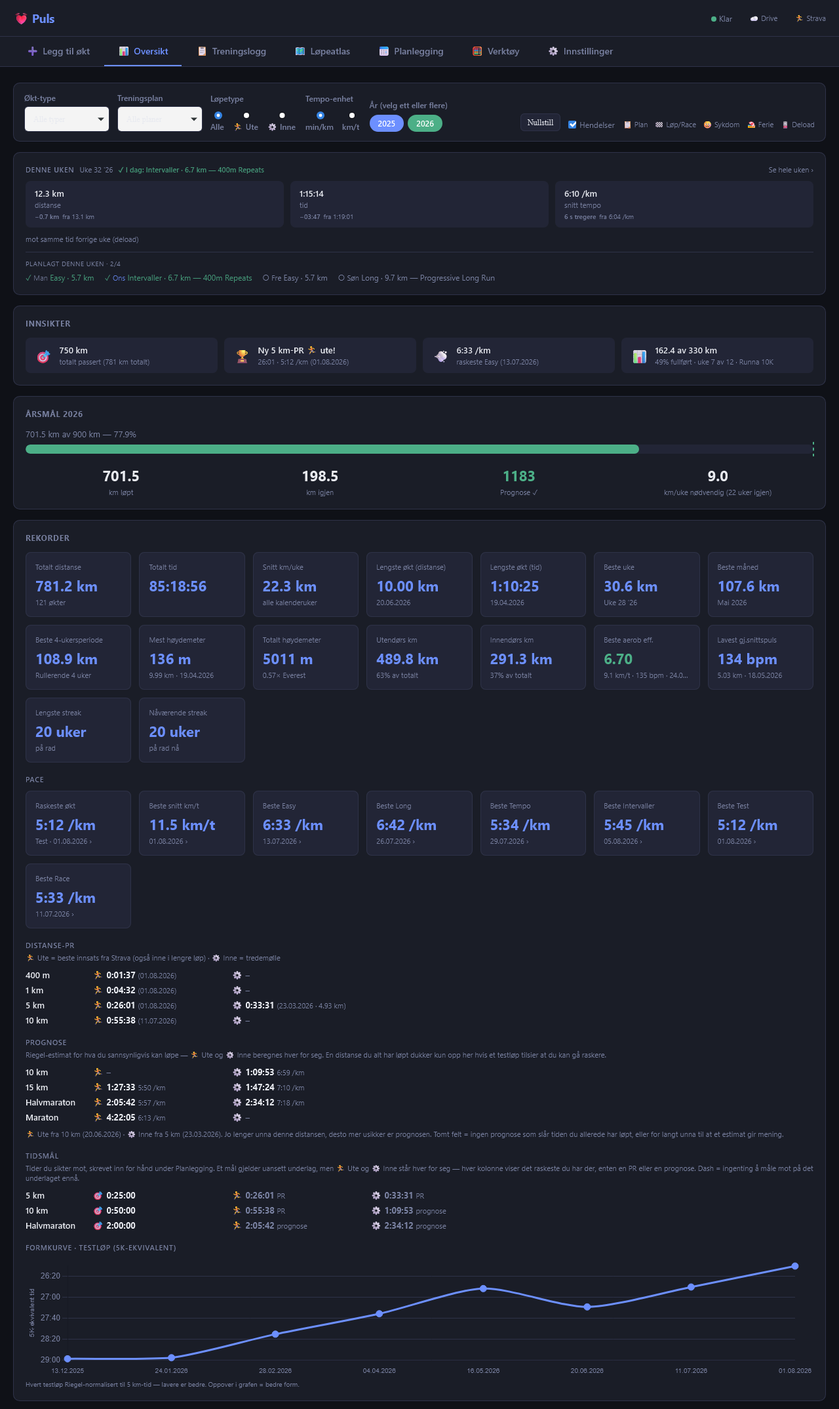
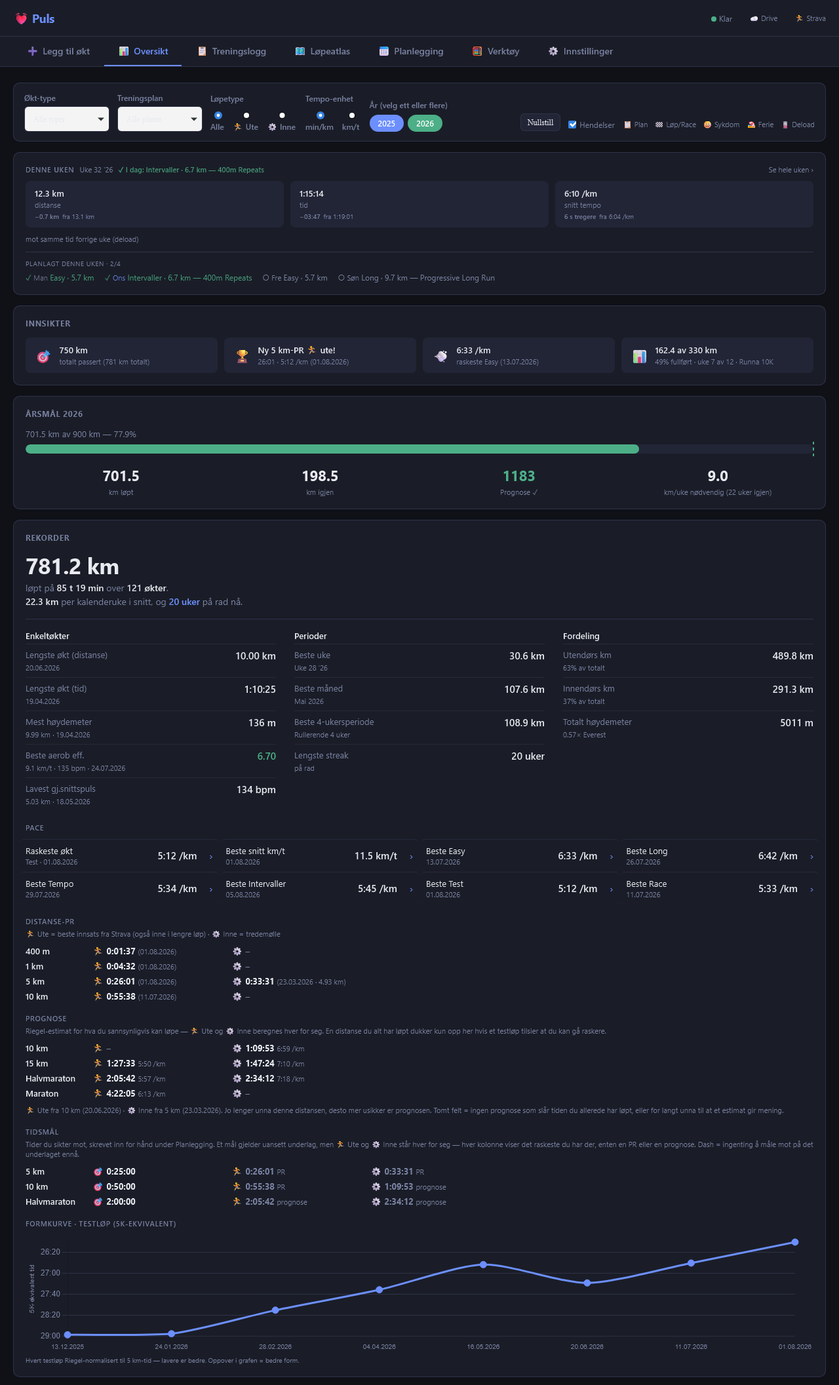
Rekorder was 24 identical tiles, every value the same shade of blue
When everything is emphasised nothing is, and finding one record meant
reading all 24. Now a headline (total distance, with time, runs, the
weekly average and the current streak as two short lines), three short
lists that say what kind of record a line is before you read it, and
the Pace rows. Every record is still there; a test lists all 24.

Blue is reserved for what you can tap, so the Pace rows read as rows
that open their run, keyboard included, plus the two colours that were
information all along: aerob eff. band and streak length. Numbers are
tabular and right-aligned. The styles sit above the phone block: the
old grid's base rule sat after it, so its phone override never applied.

charts.png moves because Rekorder's new height is fractional; the
committed code regenerates it identically, and the cards below it did
not change.

diff --git a/puls.html b/puls.html
@@ -465,6 +465,36 @@
   #scrollTopBtn.visible { opacity:1; pointer-events:auto; }
   #scrollTopBtn:hover { background:var(--accent); color:#fff; }
 
+  /* ── Rekorder ─────────────────────────────────────────────────────────────────────────────────
+     A headline, three short lists and tappable Pace rows, instead of 24 identical tiles that gave
+     every record the same weight (his pick of three mockups, 2026-09-27). Every record is still
+     here. Blue is RESERVED for what you can tap — the Pace rows — plus the two values whose colour
+     is information (aerob eff. band, streak length); every other value is plain text.
+     ⚠ Deliberately ABOVE the phone @media block: the old `.records-grid` base rule sat after it,
+     so its phone override lost on source order and never applied. */
+  .rk-num { font-variant-numeric: tabular-nums; }
+  .rk-hero { padding: 2px 0 16px; border-bottom: 1px solid var(--border); margin-bottom: 16px; }
+  .rk-big { font-size: 34px; font-weight: 700; letter-spacing: -.5px; line-height: 1.05; }
+  .rk-say { font-size: 14px; color: var(--muted); margin-top: 6px; line-height: 1.5; }
+  .rk-say b { color: var(--text); font-weight: 600; }
+  .rk-groups { display: grid; grid-template-columns: repeat(3, 1fr); gap: 8px 28px; }
+  .rk-group h4 { font-size: 13px; font-weight: 600; margin-bottom: 4px; }
+  .rk-row { display: grid; grid-template-columns: 1fr auto; column-gap: 12px; padding: 7px 0; border-top: 1px solid rgba(46,50,72,.6); }
+  .rk-l { color: var(--muted); font-size: 13px; }
+  .rk-v { font-size: 15px; font-weight: 600; text-align: right; white-space: nowrap; }
+  .rk-s { grid-column: 1 / -1; font-size: 11px; color: var(--muted); margin-top: 1px; }
+  .rk-pace { display: grid; grid-template-columns: repeat(4, 1fr); column-gap: 20px; }
+  .rk-prow { display: grid; grid-template-columns: 1fr auto 14px; align-items: center; column-gap: 10px;
+             padding: 8px; margin: 0 -8px; border-top: 1px solid rgba(46,50,72,.6); border-radius: 6px; cursor: pointer; }
+  .rk-prow .rk-l { color: var(--text); }
+  .rk-prow:hover, .rk-prow:focus-visible { background: var(--surface2); outline: none; }
+  .rk-prow:focus-visible { box-shadow: inset 0 0 0 1px var(--accent); }
+  .rk-go { color: var(--accent); font-size: 16px; text-align: right; }
+  .rk-prow.rk-empty { cursor: default; }
+  .rk-prow.rk-empty:hover { background: none; }
+  .rk-prow.rk-empty .rk-v { color: var(--muted); font-weight: 400; }
+  @media (max-width: 1100px) { .rk-pace { grid-template-columns: repeat(2, 1fr); } }
+
   @media (max-width: 600px) {
     html { overflow-x: hidden; }
     header { padding: 0 12px; gap: 8px; }
@@ -540,7 +570,8 @@
     #logTable th:nth-child(6),  #logTable td:nth-child(6) { display: none; }
     .shoe-bar-row { grid-template-columns: 110px 1fr 44px; }
     .zone-grid { grid-template-columns: repeat(3, 1fr); }
-    .records-grid { grid-template-columns: repeat(auto-fill, minmax(130px, 1fr)); }
+    .rk-groups, .rk-pace { grid-template-columns: 1fr; }
+    .rk-big { font-size: 30px; }
     /* Let the date/type columns shrink so the ✏/✕ buttons stay inside the card */
     .event-row { gap: 8px; padding: 10px; }
     .event-row .er-date { min-width: 0; }
@@ -548,11 +579,6 @@
   }
 
   /* ── Records ── */
-  .records-grid { display: grid; grid-template-columns: repeat(auto-fill, minmax(160px, 1fr)); gap: 12px; }
-  .record-card { background: var(--surface2); border: 1px solid var(--border); border-radius: 8px; padding: 14px; }
-  .record-label { font-size: 11px; color: var(--muted); margin-bottom: 6px; }
-  .record-value { font-size: 22px; font-weight: 700; color: var(--accent); }
-  .record-sub { font-size: 11px; color: var(--muted); margin-top: 3px; white-space: nowrap; overflow: hidden; text-overflow: ellipsis; }
   /* Shared row layout for Distanse-PR and Prognose — one compact line per distance on
      desktop, stacked on mobile. (Named top3-* from the retired Topp 3 list it began as.) */
   .top3-list { display: flex; flex-direction: column; gap: 6px; }
@@ -1036,9 +1062,9 @@
     </div>
     <div class="card span2">
       <div class="card-title">Rekorder</div>
-      <div class="records-grid" id="recordsGrid"></div>
+      <div id="recordsGrid"></div>
       <div style="font-size:11px;font-weight:600;color:var(--muted);text-transform:uppercase;letter-spacing:.06em;margin:18px 0 10px">Pace</div>
-      <div class="records-grid" id="paceRecordsGrid"></div>
+      <div class="rk-pace" id="paceRecordsGrid"></div>
       <div style="font-size:11px;font-weight:600;color:var(--muted);text-transform:uppercase;letter-spacing:.06em;margin:18px 0 4px">Distanse-PR</div>
       <div style="font-size:11px;color:var(--muted);margin-bottom:10px">🏃 Ute = beste innsats fra Strava (også inne i lengre løp) · ⚙ Inne = tredemølle</div>
       <div id="distPRList"></div>
@@ -10008,29 +10034,58 @@ function renderDashboard() {
       </div>`;
   }
 
-  // Records
+  // Records — a headline, then three short lists (his pick of three mockups, 2026-09-27). Every
+  // record the 24 tiles held is still here: four of them read better as the headline sentence than
+  // as tiles, and grouping says what KIND of record a line is before you read it.
   const recs = computeRecords(sessions);
-  // `sid` makes a card open that run's detail panel — only the Pace row passes one (his call,
-  // 2026-09-22): each of those cards IS one run, and «which run was that?» is the question it raises.
-  const recCardHtml = r => `<div class="record-card"${r.tooltip ? ` title="${r.tooltip}"` : ''}${r.sid ? ` onclick="DetailPanel.openSession('${r.sid}')" style="cursor:pointer"` : ''}><div class="record-label">${r.label}</div><div class="record-value"${r.color ? ` style="color:${r.color}"` : ''}>${r.value}</div><div class="record-sub">${r.sub}${r.sid ? ' ›' : ''}</div></div>`;
-  document.getElementById('recordsGrid').innerHTML = [
-    { label:'Totalt distanse', value: recs.totalDist.toFixed(1)+' km', sub: `${sessions.length} økter` },
-    { label:'Totalt tid', value: secsToHms(recs.totalTime), sub: '' },
-    { label:'Snitt km/uke', value: recs.snittKmUke ? recs.snittKmUke+' km' : '–', sub: 'alle kalenderuker' },
-    { label:'Lengste økt (distanse)', value: recs.longestDist ? fmtDist(recs.longestDist.distanse)+' km' : '–', sub: recs.longestDist ? fmtDate(recs.longestDist.dato) : '' },
-    { label:'Lengste økt (tid)', value: recs.longestTime ? secsToHms(recs.longestTime.varighet) : '–', sub: recs.longestTime ? fmtDate(recs.longestTime.dato) : '' },
-    { label:'Beste uke', value: recs.besteUke ? recs.besteUkeKm.toFixed(1)+' km' : '–', sub: recs.besteUke ? fmtWeekLabel(recs.besteUke) : '' },
-    { label:'Beste måned', value: recs.besteMåned ? recs.besteMånedKm.toFixed(1)+' km' : '–', sub: recs.besteMåned ? (['Jan','Feb','Mar','Apr','Mai','Jun','Jul','Aug','Sep','Okt','Nov','Des'][+recs.besteMåned.slice(5,7)-1]+' '+recs.besteMåned.slice(0,4)) : '' },
-    { label:'Beste 4-ukersperiode', value: recs.beste4Blokk ? recs.beste4Blokk.toFixed(1)+' km' : '–', sub: 'Rullerende 4 uker' },
-    { label:'Mest høydemeter', value: recs.bestHoyde ? recs.bestHoyde.hoydeMeter+' m' : '–', sub: recs.bestHoyde ? `${fmtDist(recs.bestHoyde.distanse)} km · ${fmtDate(recs.bestHoyde.dato)}` : '' },
-    { label:'Totalt høydemeter', value: recs.totalHoyde ? recs.totalHoyde+' m' : '–', sub: recs.totalHoyde ? `${(recs.totalHoyde/8849).toFixed(2)}× Everest` : '' },
-    { label:'Utendørs km', value: recs.totalOutdoorKm ? recs.totalOutdoorKm+' km' : '–', sub: recs.totalDist ? `${Math.round(recs.totalOutdoorKm/recs.totalDist*100)}% av totalt` : '' },
-    { label:'Innendørs km', value: recs.totalIndoorKm ? recs.totalIndoorKm+' km' : '–', sub: recs.totalDist ? `${Math.round(recs.totalIndoorKm/recs.totalDist*100)}% av totalt` : '' },
-    { label:'Beste aerob eff.', value: recs.bestAerobEff ? recs.bestAerobEff.ae.toFixed(2) : '–', sub: recs.bestAerobEff ? `${PaceConv.fmtKmh(+recs.bestAerobEff.kmh)} km/t · ${recs.bestAerobEff.gjsnittspuls} bpm · ${fmtDate(recs.bestAerobEff.dato)}` : '', color: recs.bestAerobEff ? (recs.bestAerobEff.ae >= 7 ? '#6c8fff' : recs.bestAerobEff.ae >= 5.5 ? 'var(--green)' : recs.bestAerobEff.ae >= 4 ? 'rgba(240,192,80,.9)' : '#f87171') : null, tooltip: 'Aerob effektivitet = fart ÷ puls × 100\nLav: < 4.0 · Moderat: 4.0–5.5 · God: 5.5–7.0 · Høy: > 7.0' },
-    { label:'Lavest gj.snittspuls', value: recs.lavPuls ? recs.lavPuls.gjsnittspuls+' bpm' : '–', sub: recs.lavPuls ? `${fmtDist(recs.lavPuls.distanse)} km · ${fmtDate(recs.lavPuls.dato)}` : '' },
-    { label:'Lengste streak', value: recs.longestStreak ? `${recs.longestStreak} uker` : '–', sub: recs.longestStreak===1 ? '1 uke på rad' : recs.longestStreak > 1 ? 'på rad' : '' },
-    { label:'Nåværende streak', value: recs.currentStreak ? `${recs.currentStreak} uker` : '–', sub: recs.currentStreak > 1 ? 'på rad nå' : recs.currentStreak === 1 ? 'denne uken' : '', color: recs.currentStreak >= 6 ? '#6c8fff' : recs.currentStreak >= 3 ? 'var(--green)' : recs.currentStreak >= 1 ? 'rgba(240,192,80,.9)' : null },
-  ].map(recCardHtml).join('');
+  // «85 t 19 min» reads in a sentence where «85:18:56» does not. Rounded on TOTAL minutes, so an
+  // hour never prints as «60 min».
+  const hoursMins = secs => { const tm = Math.round(secs / 60), h = Math.floor(tm / 60);
+                              return h ? `${h} t ${tm % 60} min` : `${tm} min`; };
+  // The two colours that are INFORMATION, not decoration — kept from the tiles on purpose.
+  const cs = recs.currentStreak;
+  const streakCol = cs >= 6 ? '#6c8fff' : cs >= 3 ? 'var(--green)' : cs >= 1 ? 'rgba(240,192,80,.9)' : null;
+  const ae = recs.bestAerobEff;
+  const aeCol = ae ? (ae.ae >= 7 ? '#6c8fff' : ae.ae >= 5.5 ? 'var(--green)' : ae.ae >= 4 ? 'rgba(240,192,80,.9)' : '#f87171') : null;
+  const n = sessions.length;
+  // «per kalenderuke» carries what the tile's «alle kalenderuker» said: weeks with no running count.
+  const line2 = [
+    recs.snittKmUke ? `<b class="rk-num">${recs.snittKmUke} km</b> per kalenderuke i snitt` : '',
+    cs > 1 ? `<b class="rk-num"${streakCol ? ` style="color:${streakCol}"` : ''}>${cs} uker</b> på rad nå`
+      : cs === 1 ? 'løpt denne uken' : '',
+  ].filter(Boolean).join(', og ');
+  const hero = n
+    ? `<div class="rk-hero"><div class="rk-big rk-num">${recs.totalDist.toFixed(1)} km</div>`
+      + `<div class="rk-say">løpt på <b class="rk-num">${hoursMins(recs.totalTime)}</b> over `
+      + `<b class="rk-num">${n} ${n === 1 ? 'økt' : 'økter'}</b>.`
+      + (line2 ? `<br>${line2.replace(/^([a-zæøå])/, c => c.toUpperCase())}.` : '') + `</div></div>`
+    : `<div class="rk-hero"><div class="rk-say">Ingen økter matcher filteret.</div></div>`;
+  const row = (label, value, sub, extra = {}) =>
+    `<div class="rk-row"${extra.tooltip ? ` title="${extra.tooltip}"` : ''}><span class="rk-l">${label}</span>`
+    + `<span class="rk-v rk-num"${extra.color ? ` style="color:${extra.color}"` : ''}>${value}</span>`
+    + (sub ? `<span class="rk-s">${sub}</span>` : '') + `</div>`;
+  const MND = ['Jan','Feb','Mar','Apr','Mai','Jun','Jul','Aug','Sep','Okt','Nov','Des'];
+  document.getElementById('recordsGrid').innerHTML = hero + `<div class="rk-groups">
+    <div class="rk-group"><h4>Enkeltøkter</h4>${[
+      row('Lengste økt (distanse)', recs.longestDist ? fmtDist(recs.longestDist.distanse)+' km' : '–', recs.longestDist ? fmtDate(recs.longestDist.dato) : ''),
+      row('Lengste økt (tid)', recs.longestTime ? secsToHms(recs.longestTime.varighet) : '–', recs.longestTime ? fmtDate(recs.longestTime.dato) : ''),
+      row('Mest høydemeter', recs.bestHoyde ? recs.bestHoyde.hoydeMeter+' m' : '–', recs.bestHoyde ? `${fmtDist(recs.bestHoyde.distanse)} km · ${fmtDate(recs.bestHoyde.dato)}` : ''),
+      row('Beste aerob eff.', ae ? ae.ae.toFixed(2) : '–', ae ? `${PaceConv.fmtKmh(+ae.kmh)} km/t · ${ae.gjsnittspuls} bpm · ${fmtDate(ae.dato)}` : '',
+          { color: aeCol, tooltip: 'Aerob effektivitet = fart ÷ puls × 100\nLav: < 4.0 · Moderat: 4.0–5.5 · God: 5.5–7.0 · Høy: > 7.0' }),
+      row('Lavest gj.snittspuls', recs.lavPuls ? recs.lavPuls.gjsnittspuls+' bpm' : '–', recs.lavPuls ? `${fmtDist(recs.lavPuls.distanse)} km · ${fmtDate(recs.lavPuls.dato)}` : ''),
+    ].join('')}</div>
+    <div class="rk-group"><h4>Perioder</h4>${[
+      row('Beste uke', recs.besteUke ? recs.besteUkeKm.toFixed(1)+' km' : '–', recs.besteUke ? fmtWeekLabel(recs.besteUke) : ''),
+      row('Beste måned', recs.besteMåned ? recs.besteMånedKm.toFixed(1)+' km' : '–', recs.besteMåned ? `${MND[+recs.besteMåned.slice(5,7)-1]} ${recs.besteMåned.slice(0,4)}` : ''),
+      row('Beste 4-ukersperiode', recs.beste4Blokk ? recs.beste4Blokk.toFixed(1)+' km' : '–', 'Rullerende 4 uker'),
+      row('Lengste streak', recs.longestStreak ? `${recs.longestStreak} ${recs.longestStreak === 1 ? 'uke' : 'uker'}` : '–', recs.longestStreak ? 'på rad' : ''),
+    ].join('')}</div>
+    <div class="rk-group"><h4>Fordeling</h4>${[
+      row('Utendørs km', recs.totalOutdoorKm ? recs.totalOutdoorKm+' km' : '–', recs.totalDist ? `${Math.round(recs.totalOutdoorKm/recs.totalDist*100)}% av totalt` : ''),
+      row('Innendørs km', recs.totalIndoorKm ? recs.totalIndoorKm+' km' : '–', recs.totalDist ? `${Math.round(recs.totalIndoorKm/recs.totalDist*100)}% av totalt` : ''),
+      row('Totalt høydemeter', recs.totalHoyde ? recs.totalHoyde+' m' : '–', recs.totalHoyde ? `${(recs.totalHoyde/8849).toFixed(2)}× Everest` : ''),
+    ].join('')}</div>
+  </div>`;
 
   // Labels carry no "pace": the section heading above already says Pace, so repeating it on every
   // card was redundant — and the repetition was hiding a collision. "Beste tempo" (best pace of any
@@ -10045,6 +10100,14 @@ function renderDashboard() {
   // tell from a decision.
   const PACE_CARD_SKIP = ['Steady'];
   const paceCard = (label, s) => ({ label, value: s ? secsToMmSs(s.tempo)+' /km' : '–', sub: s ? fmtDate(s.dato) : '', sid: s?.id });
+  // A row with a run behind it opens that run (his call, 2026-09-22) — keyboard too, since a row is
+  // not a button by nature. An empty row is not a control, so it gets neither the › nor the hover.
+  const paceRow = r => r.sid
+    ? `<div class="rk-prow" role="button" tabindex="0" onclick="DetailPanel.openSession('${r.sid}')"`
+      + ` onkeydown="if(event.key==='Enter'||event.key===' '){event.preventDefault();this.click()}">`
+      + `<div><div class="rk-l">${r.label}</div><div class="rk-s">${r.sub}</div></div>`
+      + `<span class="rk-v rk-num">${r.value}</span><span class="rk-go">›</span></div>`
+    : `<div class="rk-prow rk-empty"><div class="rk-l">${r.label}</div><span class="rk-v rk-num">${r.value}</span><span class="rk-go"></span></div>`;
   document.getElementById('paceRecordsGrid').innerHTML = [
     // "Raskeste økt", not "Beste totalt" (vague about what was totalled) and not "alle økter" —
     // this card excludes Avvik-flagged runs like every other quality record, so a label promising
@@ -10057,11 +10120,11 @@ function renderDashboard() {
     // later). It also covers the two categories that have no card of their own: Steady, and any
     // custom type — so if one of those ever tops the row it says so rather than appearing unsourced.
     { ...paceCard('Raskeste økt', recs.bestePace),
-      sub: recs.bestePace ? `${recs.bestePace.okttype || 'ukjent type'} · ${fmtDate(recs.bestePace.dato)}` : '' },
+      sub: recs.bestePace ? `${escapeHtml(recs.bestePace.okttype || 'ukjent type')} · ${fmtDate(recs.bestePace.dato)}` : '' },
     { label:'Beste snitt km/t', value: recs.bestKmh ? PaceConv.fmtKmh(recs.bestKmh.snittkmh)+' km/t' : '–', sub: recs.bestKmh ? fmtDate(recs.bestKmh.dato) : '', sid: recs.bestKmh?.id },
     ...CORE_OKTTYPER.filter(t => !PACE_CARD_SKIP.includes(t))
                     .map(t => paceCard(`Beste ${t}`, recs.bestPaceByType[t])),
-  ].map(recCardHtml).join('');
+  ].map(paceRow).join('');
 
   // Distanse-PR: one row per distance, Ute (Strava best effort) beside Inne (treadmill).
   // Two populations, never merged — see DATA.md "Belt vs GPS". The outdoor runners-up

diff --git a/tests/test_insights.py b/tests/test_insights.py
@@ -556,15 +556,54 @@ with sync_playwright() as p:
     pg.wait_for_timeout(500)
     pg.evaluate("() => switchTab('dash')")
     pg.wait_for_timeout(400)
-    card = lambda label: pg.locator('.record-card', has=pg.locator('.record-label', has_text=label)).first
-    check('the Easy card says it can be opened', '›' in card('Beste Easy').inner_text(), True)
-    check('an empty card (no Race) cannot', card('Beste Race').get_attribute('onclick'), None)
-    check('a totals card cannot', card('Totalt distanse').get_attribute('onclick'), None)
-    card('Beste Easy').click()
+    # Rows since the Rekorder redesign (2026-09-27): a Pace row is `.rk-prow`, a record in the three
+    # lists above it is `.rk-row` and is never a control.
+    prow = lambda label: pg.locator('.rk-prow', has=pg.locator('.rk-l', has_text=label)).first
+    check('the Easy row says it can be opened', '›' in prow('Beste Easy').inner_text(), True)
+    check('an empty row (no Race) cannot', prow('Beste Race').get_attribute('onclick'), None)
+    check('...and is not announced as a button either', prow('Beste Race').get_attribute('role'), None)
+    lrow = pg.locator('.rk-row', has=pg.locator('.rk-l', has_text='Lengste økt (distanse)')).first
+    check('a record in the lists above cannot', lrow.get_attribute('onclick'), None)
+    prow('Beste Easy').click()
     pg.wait_for_timeout(300)
     check('clicking it opens the detail panel',
           pg.evaluate("() => document.getElementById('detailModal').classList.contains('open')"), True)
     check('...on the FASTER Easy run, not just an Easy run', 'Rask easy' in pg.inner_text('#detailModal'), True)
+    # A row is not a button by nature, so the keyboard path is its own claim.
+    pg.evaluate("() => document.getElementById('detailModal').classList.remove('open')")
+    prow('Beste Easy').focus()
+    pg.keyboard.press('Enter')
+    pg.wait_for_timeout(300)
+    check('Enter on a focused row opens it too',
+          pg.evaluate("() => document.getElementById('detailModal').classList.contains('open')"), True)
+    pg.evaluate("() => document.getElementById('detailModal').classList.remove('open')")
+
+    # ── The redesign kept every record (his question: «same cards?» — yes) ─────────────────────
+    # 24 tiles became a headline, three lists and the Pace rows. Twelve records are list rows, eight
+    # are Pace rows, and the four folded into the headline are asserted by what they SAY.
+    print("== every record survives the Rekorder redesign ==")
+    rows = pg.evaluate("() => [...document.querySelectorAll('#recordsGrid .rk-row .rk-l')].map(e => e.textContent)")
+    check('the twelve list records are all there', sorted(rows), sorted([
+        'Lengste økt (distanse)', 'Lengste økt (tid)', 'Mest høydemeter', 'Beste aerob eff.',
+        'Lavest gj.snittspuls', 'Beste uke', 'Beste måned', 'Beste 4-ukersperiode', 'Lengste streak',
+        'Utendørs km', 'Innendørs km', 'Totalt høydemeter']))
+    check('...and the eight Pace rows', pg.evaluate("() => document.querySelectorAll('#paceRecordsGrid .rk-prow').length"), 8)
+    hero = " ".join(pg.inner_text('#recordsGrid .rk-hero').split())
+    check('the headline carries total distance, time and the run count',
+          ('12.0 km' in hero, 'løpt på' in hero, '2 økter' in hero), (True, True, True))
+    check('...and the weekly average, saying weeks without runs count',
+          'per kalenderuke i snitt' in hero, True)
+    # The two colours that are information, not decoration, must survive the plain-text redesign.
+    ae_colour = pg.evaluate("""() => { const r = [...document.querySelectorAll('#recordsGrid .rk-row')]
+        .find(e => e.querySelector('.rk-l').textContent === 'Beste aerob eff.');
+        return r && r.querySelector('.rk-v').getAttribute('style'); }""")
+    check('⚠ aerob eff. keeps its band colour', bool(ae_colour and 'color' in ae_colour), True)
+    check('...and its explanation', pg.evaluate("""() => { const r = [...document.querySelectorAll('#recordsGrid .rk-row')]
+        .find(e => e.querySelector('.rk-l').textContent === 'Beste aerob eff.');
+        return (r && r.getAttribute('title') || '').includes('Aerob effektivitet'); }"""), True)
+    check('blue is not spent on plain values any more',
+          pg.evaluate("""() => getComputedStyle(document.querySelector('#recordsGrid .rk-row .rk-v')).color"""),
+          pg.evaluate("() => getComputedStyle(document.body).color"))
 
     if errs:
         print('  PAGE ERRORS:', errs)

diff --git a/tests/test_race_events.py b/tests/test_race_events.py
@@ -1197,7 +1197,9 @@ with sync_playwright() as b0:
     pg.evaluate("() => switchTab('dash')")
     pg.wait_for_timeout(500)
     saw_comparison = False
-    for sel in ['#weeklyTable tbody tr', '.record-card', '#blocksCard [data-block]']:
+    # '.rk-prow[role=button]', not the old '.record-card': the Rekorder redesign (2026-09-27) would
+    # otherwise have left this walk clicking NOTHING in Rekorder, silently narrowing the sweep.
+    for sel in ['#weeklyTable tbody tr', '.rk-prow[role=button]', '#blocksCard [data-block]']:
         loc = pg.locator(sel)
         for i in range(min(loc.count(), 4)):
             loc.nth(i).click()

diff --git a/README.md b/README.md
@@ -39,8 +39,8 @@ En selvstendig løpelogg i én enkelt fil — logg en økt på sekunder og følg
   - **Ukens plan med ett blikk** *(krever importert plan)* — **Planlagt denne uken · 2/4**, og så hver planlagte økt med status: **✓ Man Easy · 4.5 km · ✓ Ons Long · 5 km · ○ Fre Intervaller · 4.5 km · ✗ Søn Long · 12 km**. Hele uken blir stående hele uken, så du ser hva du har gjort, hva som gjenstår og hva du mistet uten å åpne et kort — en liste som fjernet de ferdige radene kunne ikke fortalt deg om uken startet med fire økter eller to. Gjort er grønn ✓, foran deg er ○, mistet er en dempet ✗ (ikke overstrøket — en mistet økt er ikke avlyst), og dagens dagnavn er markert i blått. En **Test eller et Race får 🏁** — ukens maksimale innsats, den som flytter prognosene dine: **○ Fre 🏁 Race · 5 km**. Samme 🏁 som hendelseslisten og nedtellingen i Innsikter bruker, så symbolet betyr det samme overalt; de fem andre økttypene har med vilje ikke noe ikon, siden et ikon på alt ikke markerer noe. Dette er det eneste kortet som trenger det — «Planlagte økter» og blokk-detaljene fargelegger selve økttypen, mens her bærer fargen status. Økter du har gyldig fravær fra (Sykdom/Ferie) holdes utenfor **og forlater tellingen**, så den deler aldri på en økt den nekter å vise. Dekker ingen plan uken, faller den tilbake på et enkelt «Ingen økter ennå denne uken» — en plan som mangler er ikke en hvileuke
 - **Årsmålkortet** — framdriftslinje med km gjort, km igjen, prognose for året og hvor mange km i uken som trengs for å holde ruta; en **stiplet prognosemarkør** på linjen viser hvor årsprognosen lander i forhold til målet (grønn hvis du er i rute, rød hvis du ligger an til å komme til kort), så avstanden til målet er synlig med ett blikk
 - **Rekorder** — fem underseksjoner. Alt her er utledet fra løpene dine; ingenting skrives inn for hånd.
-  - **Hovedrutenett** — total distanse og tid, snitt km/uke, lengste økt målt i distanse og i tid, beste uke / måned / rullerende 4-ukersblokk, mest og totalt antall høydemeter (med antall Everest-høyder), km ute mot inne, beste aerobe effektivitet, laveste snittpuls på et løp ≥ 5 km, lengste og gjeldende streak. Aerob effektivitet og gjeldende streak er fargekodet (rød/gul/grønn/blå), og effektivitetsruten har en tooltip ved hover som forklarer skalaen (Lav < 4.0 · Moderat 4.0–5.5 · God 5.5–7.0 · Høy > 7.0)
-  - **Tempo** — **Raskeste økt** (ditt raskeste løp uansett type, med **økttypen navngitt ved siden av datoen**, slik at raden svarer på *hvilken type økt som gir din raskeste løping* og ikke bare hva tallet er), beste snitt km/t, og så ett kort per økttype. Typekortene **genereres fra listen over økttyper**, så legger du til en type, får den et kort automatisk. *Steady* er bevisst utelatt: den er en samlekategori for løp som ikke passer noen annen type, så et «beste Steady-tempo» ville tatt snittet av en blandet sekk og beskrevet ingenting
+  - **Hovedtall** — én overskrift øverst: den totale distansen, med tid, antall økter, snitt km per kalenderuke og gjeldende streak skrevet som to korte linjer under. Resten står i tre korte lister i stedet for et rutenett der alt veide like mye: **Enkeltøkter** (lengste økt i distanse og i tid, mest høydemeter, beste aerobe effektivitet, laveste snittpuls på et løp ≥ 5 km), **Perioder** (beste uke / måned / rullerende 4-ukersblokk, lengste streak) og **Fordeling** (km ute mot inne, totalt antall høydemeter med antall Everest-høyder). Tallene er høyrestilt med like brede sifre, så de kan leses nedover. Blått er forbeholdt det du kan trykke på, pluss to verdier der fargen *er* informasjonen: aerob effektivitet og gjeldende streak er fargekodet (rød/gul/grønn/blå), og effektivitetsraden har en tooltip ved hover som forklarer skalaen (Lav < 4.0 · Moderat 4.0–5.5 · God 5.5–7.0 · Høy > 7.0)
+  - **Tempo** — **Raskeste økt** (ditt raskeste løp uansett type, med **økttypen navngitt ved siden av datoen**, slik at raden svarer på *hvilken type økt som gir din raskeste løping* og ikke bare hva tallet er), beste snitt km/t, og så én rad per økttype. Typeradene **genereres fra listen over økttyper**, så legger du til en type, får den en rad automatisk. **Hver rad med et løp bak seg åpner det løpet** — det er det › betyr, og derfor er de blå. *Steady* er bevisst utelatt: den er en samlekategori for løp som ikke passer noen annen type, så et «beste Steady-tempo» ville tatt snittet av en blandet sekk og beskrevet ingenting
   - **Distanse-PR** — 400 m → maraton, én rad per distanse, med **to uavhengige kolonner**. 🏃 **Ute** er Stravas best effort: den raskeste strekningen på den distansen *inne i et hvilket som helst utendørsløp*, så segmenter teller, og en rask 5 km inni et 10 km-løp er en 5 km-PR. ⚙ **Inne** utleder det samme fra tredemølledataene — den raskeste sammenhengende 5 km (osv.) inne i et hvilket som helst mølleløp — fordi Strava bare regner best effort utendørs. Den faller tilbake på et helt mølleløp på den distansen, og cellen sier hvilken av delene det er: en dato alene er en eksakt splitt, en dato pluss en distanse er et helt løp. Tre regler holder det ærlig:
     - Ute og tredemølle **slås aldri sammen til ett tall** — belte og GPS måler ulikt, og beltet leser systematisk raskere
     - En distanse kvalifiserer bare innenfor **±2 %** av den nominelle lengden, så merkelappen betyr alltid det den sier — en tom celle er bedre enn en feil

diff --git a/README.en.md b/README.en.md
@@ -39,8 +39,8 @@ A self-contained single-file running tracker — log a run in seconds and follow
   - **The week's plan, at a glance** *(needs an imported plan)* — **Planlagt denne uken · 2/4**, then every scheduled session with its status: **✓ Man Easy · 4.5 km · ✓ Ons Long · 5 km · ○ Fre Intervaller · 4.5 km · ✗ Søn Long · 12 km**. The whole week stays listed all week, so you can see what you've done, what's left and what you missed without opening a card — a list that dropped its finished rows couldn't tell you whether the week started with four sessions or two. Done is green ✓, still ahead is ○, missed is a dimmed ✗ (not struck through — a missed session isn't cancelled), and today's day name is picked out in blue. A **Test or Race gets 🏁** — the week's maximal effort, the one that moves your projections: **○ Fre 🏁 Race · 5 km**. Same 🏁 the event list and the Innsikter countdown already use, so the symbol means one thing everywhere; the other five session types deliberately get no icon, since an icon on everything marks nothing. This is the only card that needs it — «Planlagte økter» and the block drill-down colour the session type itself, whereas here colour carries status. Sessions you're excused from (Sykdom/Ferie) are left out **and leave the count**, so it never divides by a session it refuses to show. With no plan covering the week it falls back to the plain "Ingen økter ennå denne uken" — an absent plan is not a rest week
 - **Yearly goal card** — progress bar with km done, km remaining, year-end projection, and required weekly km to stay on track; a **dashed projection marker** on the bar shows where the year-end forecast lands relative to the goal (green if on track, red if short), so the gap to target is visible at a glance
 - **Rekorder** — five sub-sections. Everything here is derived from your runs; nothing is typed in by hand.
-  - **Hovedrutenett** — total distance and time, avg km/week, longest session by distance and by time, best week / month / rolling 4-week block, most and total elevation gain (with an Everest multiple), outdoor vs indoor km, best aerobic efficiency, lowest avg HR on a run ≥ 5 km, longest and current streak. Aerobic efficiency and current streak are colour-coded (red/amber/green/blue), and the efficiency tile has a hover tooltip for the scale (Lav < 4.0 · Moderat 4.0–5.5 · God 5.5–7.0 · Høy > 7.0)
-  - **Pace** — **Raskeste økt** (your fastest run of any type, with the **session type named beside the date**, so the row answers *which kind of session produces your fastest running* and not just what the number is), best avg km/h, then one card per session type. The type cards are **generated from the session-type list**, so adding a type gives it a card automatically. *Steady* is deliberately left out: it's a catch-all for runs that fit no other type, so a "best Steady pace" would average over a mixed bag and describe nothing
+  - **Hovedtall** — one headline at the top: total distance, with time, number of runs, average km per calendar week and the current streak written as two short lines under it. The rest sits in three short lists rather than a grid where everything weighed the same: **Enkeltøkter** (longest session by distance and by time, most elevation gain, best aerobic efficiency, lowest avg HR on a run ≥ 5 km), **Perioder** (best week / month / rolling 4-week block, longest streak) and **Fordeling** (outdoor vs indoor km, total elevation gain with an Everest multiple). Values are right-aligned with equal-width digits, so they read down a column. Blue is reserved for what you can tap, plus two values whose colour *is* the information: aerobic efficiency and current streak are colour-coded (red/amber/green/blue), and the efficiency row has a hover tooltip for the scale (Lav < 4.0 · Moderat 4.0–5.5 · God 5.5–7.0 · Høy > 7.0)
+  - **Pace** — **Raskeste økt** (your fastest run of any type, with the **session type named beside the date**, so the row answers *which kind of session produces your fastest running* and not just what the number is), best avg km/h, then one row per session type. The type rows are **generated from the session-type list**, so adding a type gives it a row automatically. **Every row with a run behind it opens that run** — that is what the › means, and why they are blue. *Steady* is deliberately left out: it's a catch-all for runs that fit no other type, so a "best Steady pace" would average over a mixed bag and describe nothing
   - **Distanse-PR** — 400 m → marathon, one row per distance, with **two independent columns**. 🏃 **Ute** is Strava's best effort: the fastest stretch at that distance *inside any outdoor run*, so segments count and a fast 5 km within a 10 km run is a 5 km PB. ⚙ **Inne** derives the same idea from the treadmill streams — the fastest continuous 5 km (etc.) inside any belt run — because Strava computes best efforts outdoors only. It falls back to a whole belt run at that distance, and the cell says which: a date alone is an exact split, a date plus a distance is a whole run. Three rules keep it honest:
     - Outdoor and treadmill are **never merged into one number** — belt and GPS measure differently, and belt reads systematically faster
     - A distance qualifies only within **±2 %** of the nominal length, so the label always means what it says — an empty cell beats a wrong one
